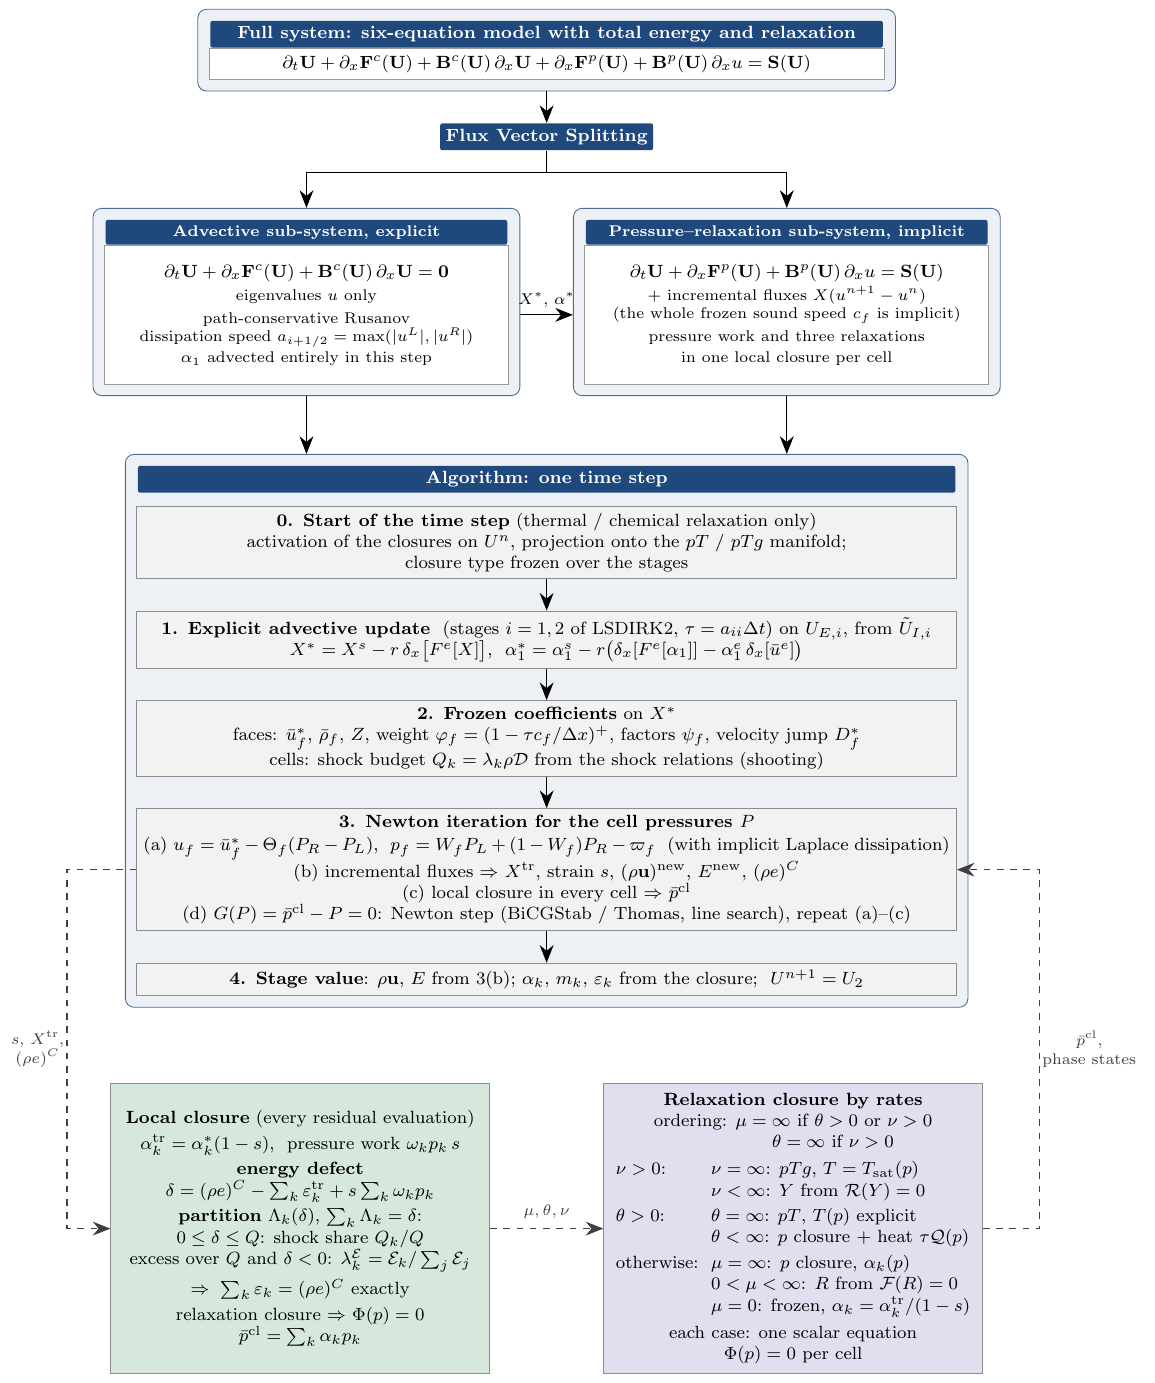
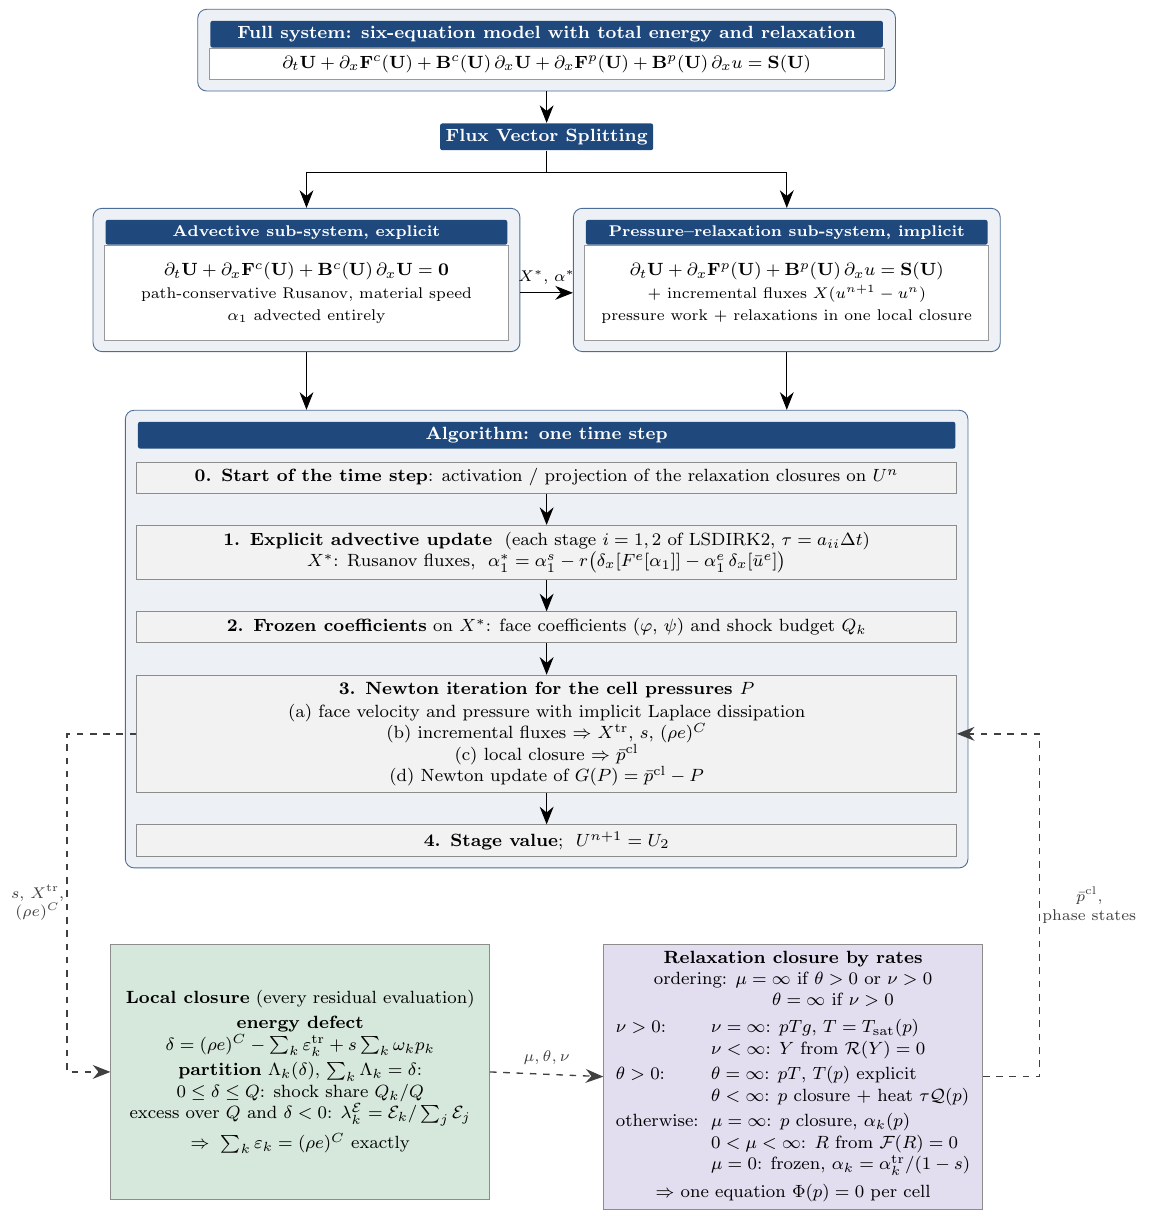
Flowchart: shorter text (structure and key formulas only)
Claude-Session: https://claude.ai/code/session_01S1n65tsz3avypBq5vvRFNT

diff --git a/paper/figures/scheme.tex b/paper/figures/scheme.tex
@@ -25,19 +25,15 @@
 \draw[->] (fullbox.south) -- (split.north);
 
 % ----------------------------------------------------------------- the two sub-systems
-\node[eq, below left=15mm and 6mm of split.south, anchor=north east, text width=6.2cm, minimum height=2.2cm] (adv)
+\node[eq, below left=15mm and 6mm of split.south, anchor=north east, text width=6.2cm, minimum height=1.5cm] (adv)
   {$\partial_t\mathbf U+\partial_x\mathbf F^c(\mathbf U)+\mathbf B^c(\mathbf U)\,\partial_x\mathbf U=\mathbf 0$\\[2pt]
-   \fontsize{7pt}{8.4pt}\selectfont eigenvalues $u$ only\\[2pt]
-   \fontsize{7pt}{8.4pt}\selectfont path-conservative Rusanov\\
-   \fontsize{7pt}{8.4pt}\selectfont dissipation speed $a_{i+1/2}=\max(|u^L|,|u^R|)$\\
-   \fontsize{7pt}{8.4pt}\selectfont $\alpha_1$ advected entirely in this step};
+   \fontsize{7pt}{8.4pt}\selectfont path-conservative Rusanov, material speed\\
+   \fontsize{7pt}{8.4pt}\selectfont $\alpha_1$ advected entirely};
 \node[hdr, above=0pt of adv.north, text width=6.2cm, align=flush center, font=\fontsize{7.5pt}{9pt}\selectfont\bfseries] (advh) {Advective sub-system, explicit};
-\node[eq, below right=15mm and 6mm of split.south, anchor=north west, text width=6.2cm, minimum height=2.2cm] (prs)
+\node[eq, below right=15mm and 6mm of split.south, anchor=north west, text width=6.2cm, minimum height=1.5cm] (prs)
   {$\partial_t\mathbf U+\partial_x\mathbf F^p(\mathbf U)+\mathbf B^p(\mathbf U)\,\partial_xu=\mathbf S(\mathbf U)$\\[2pt]
    \fontsize{7pt}{8.4pt}\selectfont $+$ incremental fluxes $X(u^{n+1}-u^n)$\\
-   \fontsize{7pt}{8.4pt}\selectfont (the whole frozen sound speed $c_f$ is implicit)\\[2pt]
-   \fontsize{7pt}{8.4pt}\selectfont pressure work and three relaxations\\
-   \fontsize{7pt}{8.4pt}\selectfont in one local closure per cell};
+   \fontsize{7pt}{8.4pt}\selectfont pressure work $+$ relaxations in one local closure};
 \node[hdr, above=0pt of prs.north, text width=6.2cm, align=flush center, font=\fontsize{7.5pt}{9pt}\selectfont\bfseries] (prsh) {Pressure--relaxation sub-system, implicit};
 \begin{scope}[on background layer]
   \node[outer, fit=(adv)(advh)] (advbox) {};
@@ -53,23 +49,20 @@
 \node[hdr, below=11mm of split.south |- advbox.south, text width=12.8cm, align=flush center] (alh)
   {Algorithm: one time step};
 \node[step, below=2mm of alh] (s0)
-  {\textbf{0. Start of the time step} (thermal / chemical relaxation only)\\
-   activation of the closures on $U^n$, projection onto the $pT$ / $pTg$ manifold;\\ closure type frozen over the stages};
+  {\textbf{0. Start of the time step}: activation / projection of the relaxation closures on $U^n$};
 \node[step, below=5mm of s0] (s1)
-  {\textbf{1. Explicit advective update} \ (stages $i=1,2$ of LSDIRK2, $\tau=a_{ii}\Delta t$) on $U_{E,i}$, from $\tilde U_{I,i}$\\
-   $X^*=X^s-r\,\delta_x\big[F^e[X]\big]$, \ $\alpha^*_1=\alpha^s_1-r\big(\delta_x[F^e[\alpha_1]]-\alpha^e_1\,\delta_x[\bar u^e]\big)$};
+  {\textbf{1. Explicit advective update} \ (each stage $i=1,2$ of LSDIRK2, $\tau=a_{ii}\Delta t$)\\
+   $X^*$: Rusanov fluxes, \ $\alpha^*_1=\alpha^s_1-r\big(\delta_x[F^e[\alpha_1]]-\alpha^e_1\,\delta_x[\bar u^e]\big)$};
 \node[step, below=5mm of s1] (s2)
-  {\textbf{2. Frozen coefficients} on $X^*$\\
-   faces: $\bar u^*_f$, $\bar\rho_f$, $Z$, weight $\varphi_f=(1-\tau c_f/\Delta x)^+$, factors $\psi_f$, velocity jump $D^*_f$\\
-   cells: shock budget $Q_k=\lambda_k\rho\mathcal D$ from the shock relations (shooting)};
+  {\textbf{2. Frozen coefficients} on $X^*$: face coefficients ($\varphi$, $\psi$) and shock budget $Q_k$};
 \node[step, below=5mm of s2] (s3)
   {\textbf{3. Newton iteration for the cell pressures $P$}\\[1pt]
-   (a) $u_f=\bar u^*_f-\Theta_f(P_R-P_L)$, \ $p_f=W_fP_L+(1-W_f)P_R-\varpi_f$ \ (with implicit Laplace dissipation)\\
-   (b) incremental fluxes $\Rightarrow$ $X^{\rm tr}$, strain $s$, $(\rho\mathbf u)^{\rm new}$, $E^{\rm new}$, $(\rho e)^C$\\
-   (c) local closure in every cell $\Rightarrow$ $\bar p^{\rm cl}$ \\
-   (d) $G(P)=\bar p^{\rm cl}-P=0$: Newton step (BiCGStab / Thomas, line search), repeat (a)--(c)};
+   (a) face velocity and pressure with implicit Laplace dissipation\\
+   (b) incremental fluxes $\Rightarrow$ $X^{\rm tr}$, $s$, $(\rho e)^C$\\
+   (c) local closure $\Rightarrow$ $\bar p^{\rm cl}$\\
+   (d) Newton update of $G(P)=\bar p^{\rm cl}-P$};
 \node[step, below=5mm of s3] (s4)
-  {\textbf{4. Stage value}: $\rho\mathbf u$, $E$ from 3(b); $\alpha_k$, $m_k$, $\varepsilon_k$ from the closure; \ $U^{n+1}=U_2$};
+  {\textbf{4. Stage value}; \ $U^{n+1}=U_2$};
 \begin{scope}[on background layer]
   \node[outer, fit=(alh)(s0)(s1)(s2)(s3)(s4)] (algbox) {};
 \end{scope}
@@ -78,19 +71,17 @@
 \draw[->, semithick] (s0) -- (s1); \draw[->, semithick] (s1) -- (s2); \draw[->, semithick] (s2) -- (s3); \draw[->, semithick] (s3) -- (s4);
 
 % ----------------------------------------------------------------- local closure with energy partition
-\node[step=5.8cm, fill=clgreen, draw=black!45, below left=12mm and 9mm of algbox.south, anchor=north east, minimum height=4.6cm] (cl)
+\node[step=5.8cm, fill=clgreen, draw=black!45, below left=12mm and 9mm of algbox.south, anchor=north east, minimum height=4.05cm] (cl)
   {\textbf{Local closure} (every residual evaluation)\\[2pt]
-   $\alpha^{\rm tr}_k=\alpha^*_k(1-s)$, \ pressure work $\omega_kp_k\,s$\\[2pt]
    \textbf{energy defect}\\
    $\delta=(\rho e)^C-\sum_k\varepsilon^{\rm tr}_k+s\sum_k\omega_kp_k$\\[2pt]
    \textbf{partition} $\Lambda_k(\delta)$, $\sum_k\Lambda_k=\delta$:\\
    $0\le\delta\le Q$: shock share $Q_k/Q$\\
    excess over $Q$ and $\delta<0$: $\lambda^{\mathcal E}_k=\mathcal E_k/\sum_j\mathcal E_j$\\[2pt]
-   $\Rightarrow\ \sum_k\varepsilon_k=(\rho e)^C$ exactly\\[2pt]
-   relaxation closure $\Rightarrow$ $\Phi(p)=0$\\ $\bar p^{\rm cl}=\sum_k\alpha_kp_k$};
+   $\Rightarrow\ \sum_k\varepsilon_k=(\rho e)^C$ exactly};
 
 % ----------------------------------------------------------------- relaxation closures by rates
-\node[step=5.8cm, fill=rlpurple, draw=black!45, below right=12mm and 9mm of algbox.south, anchor=north west, minimum height=4.6cm] (rl)
+\node[step=5.8cm, fill=rlpurple, draw=black!45, below right=12mm and 9mm of algbox.south, anchor=north west, minimum height=4.05cm] (rl)
   {\textbf{Relaxation closure by rates}\\
    ordering: $\mu=\infty$ if $\theta>0$ or $\nu>0$\\ \phantom{ordering:} $\theta=\infty$ if $\nu>0$\\[3pt]
    \begin{tabular}{@{}l@{\ \ }l@{}}
@@ -102,7 +93,7 @@
                  & $0<\mu<\infty$: $R$ from $\mathcal F(R)=0$\\
                  & $\mu=0$: frozen, $\alpha_k=\alpha^{\rm tr}_k/(1-s)$
    \end{tabular}\\[3pt]
-   each case: one scalar equation\\ $\Phi(p)=0$ per cell};
+   $\Rightarrow$ one equation $\Phi(p)=0$ per cell};
 
 \draw[dashedarrow] (s3.west) -- ++(-11mm,0) |- node[pos=0.25, left, note, fill=white, inner sep=1pt] {$s$, $X^{\rm tr}$,\\$(\rho e)^C$} (cl.west);
 \draw[dashedarrow] (cl.east) -- node[above=1pt, note] {$\mu,\theta,\nu$} (rl.west);
